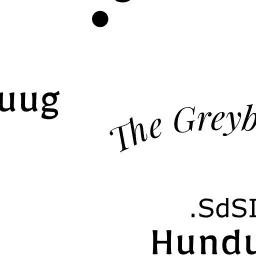
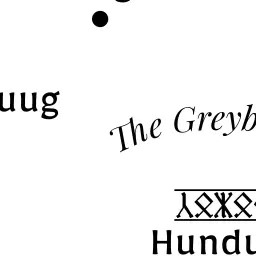
Fixed mix-blend-mode issue on chrome, and fixed missing dwarven font on map

Changed region(s): [[0.6875, 0.7188, 1.0, 0.875]]

diff --git a/voqaria/hashtaria/index.html b/voqaria/hashtaria/index.html
@@ -8,35 +8,40 @@
     <script src="/scripts/leaflet/leaflet.js"></script>
   </head>
   <style>
-    body  {
+    html, body {
+      background-color: white;
+      margin: 0;
+      padding:0;
+      width: 100vw;
+      height: 100vh;
+    }
+    #paper  {
       width: 100vw;
       height: 100vh;
       margin: 0;
-      position: absolute;
       top: 0;
       bottom: 0;
       left: 0;
       right: 0;
       background-image: url("/images/paper.webp");
-      -webkit-mix-blend-mode: multiply;
-      -moz-mix-blend-mode: multiply;
-      -o-mix-blend-mode: multiply;
-      -ms-mix-blend-mode: multiply;
-      mix-blend-mode:multiply;
-      will-change: opacity;
       background-color: transparent;
       background-attachment: fixed;
       background-position: center center;
       background-size: cover;
-      z-index: -1;
+    }
+    #map {
+      mix-blend-mode:multiply;
+      width: 100vw;
+      height: 100vh;
+      background-color: white;
     }
   </style>
   
   <body>
 
-  <div id="paper"></div>
-      <div id="map" style="width: 100%; height: 100%; background-color:transparent"></div>
-
+  <div id="paper">
+      <div id="map"></div>
+  </div>
   <script type="text/javascript">
 
     //Creating the Mapvar minZoom = 2
@@ -97,7 +102,7 @@
 
     map.on('click', function(e) {console.log("latitude: " + e.latlng.lat + ", longitude: " + e.latlng.lng + ", zoom: " + map.getZoom());});
 
-    map.setView( [-160, 90], 2);
+    map.setView( [-100, 75], 2);
 
     //Boundaries Variables
     var mapSW = [-380,350], mapNE = [200,-200];
